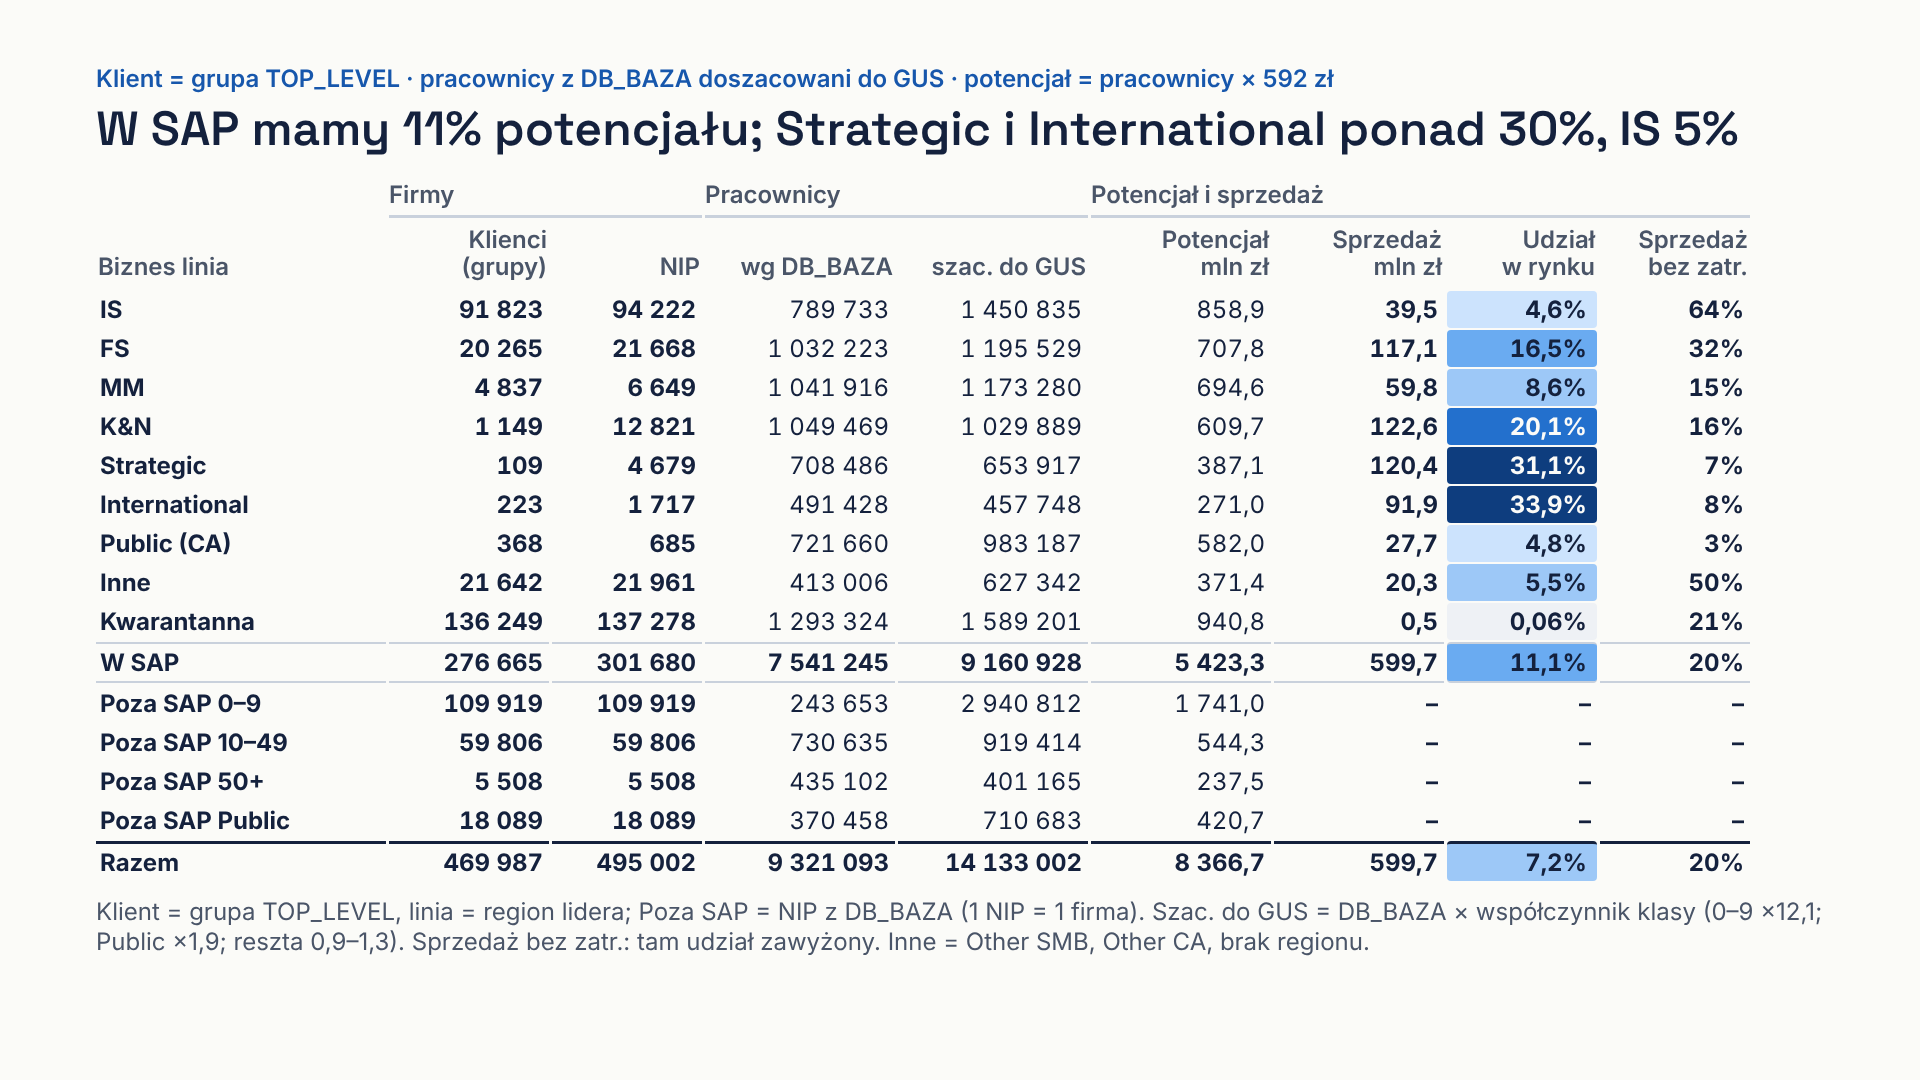
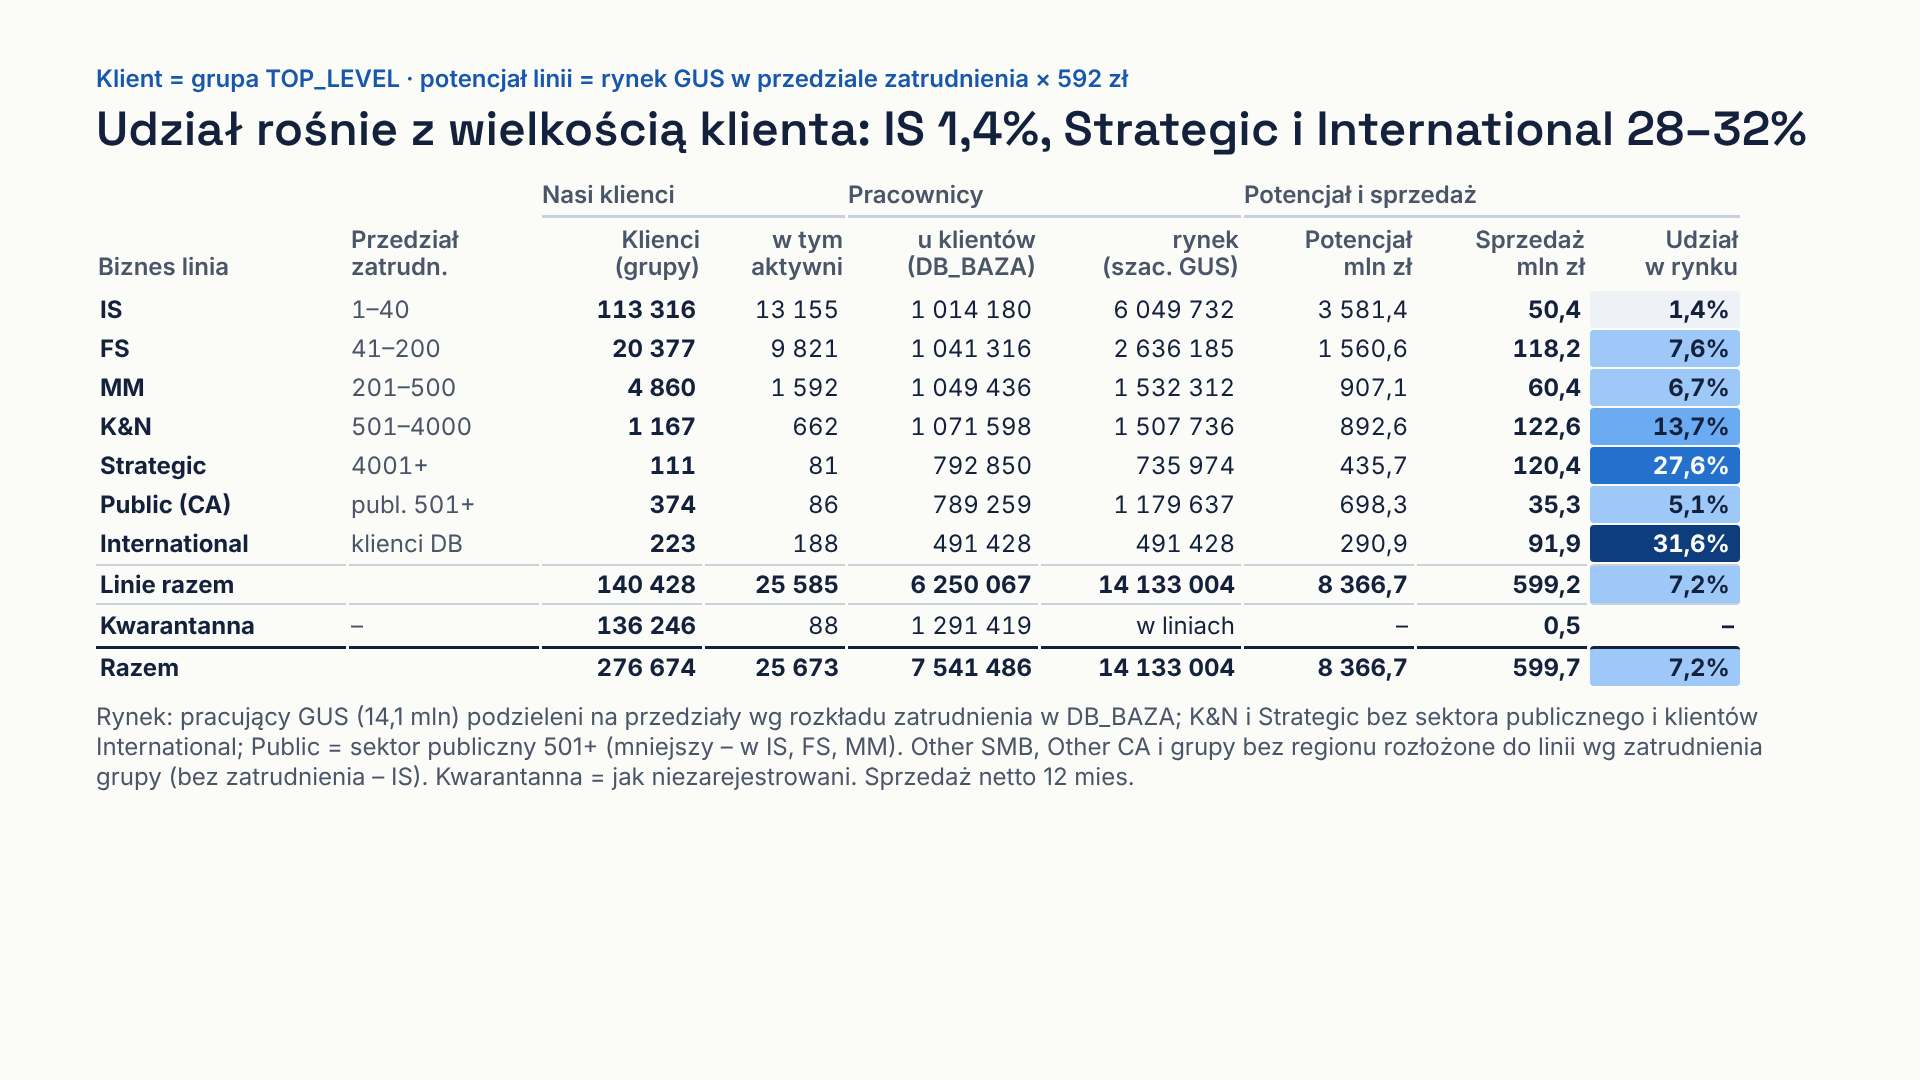
Slajd 3: potencjal linii wg matrycy zatrudnienia (D32 rynek, D33 klienci), Kwarantanna osobno
Claude-Session: https://claude.ai/code/session_01XKqyymM4iGumhJbEjTSpGW

Changed region(s): [[0.0312, 0.0611, 0.9375, 0.8861]]

diff --git a/piramida_klientow/prezentacja/slajd_gus_x_biznes_linie/slides/biznes_linie.html b/piramida_klientow/prezentacja/slajd_gus_x_biznes_linie/slides/biznes_linie.html
@@ -1,182 +1,130 @@
 <section id="biznes_linie" class="slajd">
-<p class="eyebrow">Klient = grupa TOP_LEVEL · pracownicy z DB_BAZA doszacowani do GUS · potencjał = pracownicy × 592 zł</p>
-<h2 class="tytul">W SAP mamy 11% potencjału; Strategic i International ponad 30%, IS 5%</h2>
+<p class="eyebrow">Klient = grupa TOP_LEVEL · potencjał linii = rynek GUS w przedziale zatrudnienia × 592 zł</p>
+<h2 class="tytul">Udział rośnie z wielkością klienta: IS 1,4%, Strategic i International 28–32%</h2>
 <div class="grupy3">
-<p class="grupa g3-f">Firmy</p>
+<p class="grupa g3-f">Nasi klienci</p>
 <p class="grupa g3-p">Pracownicy</p>
 <p class="grupa g3-r">Potencjał i sprzedaż</p>
 </div>
 <div class="siatka3">
 <p class="kol kol-l">Biznes linia</p>
+<p class="kol kol-l">Przedział<br>zatrudn.</p>
 <p class="kol kol-r">Klienci<br>(grupy)</p>
-<p class="kol kol-r">NIP</p>
-<p class="kol kol-r">wg DB_BAZA</p>
-<p class="kol kol-r">szac. do GUS</p>
+<p class="kol kol-r">w tym<br>aktywni</p>
+<p class="kol kol-r">u klientów<br>(DB_BAZA)</p>
+<p class="kol kol-r">rynek<br>(szac. GUS)</p>
 <p class="kol kol-r">Potencjał<br>mln zł</p>
 <p class="kol kol-r">Sprzedaż<br>mln zł</p>
 <p class="kol kol-r">Udział<br>w rynku</p>
-<p class="kol kol-r">Sprzedaż<br>bez zatr.</p>
 
 <p class="wiersz">IS</p>
-<p class="suma">91 823</p>
-<p class="suma">94 222</p>
-<p class="gus">789 733</p>
-<p class="gus">1 450 835</p>
-<p class="gus">858,9</p>
-<p class="suma">39,5</p>
-<p class="c3 h1">4,6%</p>
-<p class="suma">64%</p>
+<p class="gus pz">1–40</p>
+<p class="suma">113 316</p>
+<p class="gus">13 155</p>
+<p class="gus">1 014 180</p>
+<p class="gus">6 049 732</p>
+<p class="gus">3 581,4</p>
+<p class="suma">50,4</p>
+<p class="c3 h0">1,4%</p>
 
 <p class="wiersz">FS</p>
-<p class="suma">20 265</p>
-<p class="suma">21 668</p>
-<p class="gus">1 032 223</p>
-<p class="gus">1 195 529</p>
-<p class="gus">707,8</p>
-<p class="suma">117,1</p>
-<p class="c3 h3">16,5%</p>
-<p class="suma">32%</p>
+<p class="gus pz">41–200</p>
+<p class="suma">20 377</p>
+<p class="gus">9 821</p>
+<p class="gus">1 041 316</p>
+<p class="gus">2 636 185</p>
+<p class="gus">1 560,6</p>
+<p class="suma">118,2</p>
+<p class="c3 h2">7,6%</p>
 
 <p class="wiersz">MM</p>
-<p class="suma">4 837</p>
-<p class="suma">6 649</p>
-<p class="gus">1 041 916</p>
-<p class="gus">1 173 280</p>
-<p class="gus">694,6</p>
-<p class="suma">59,8</p>
-<p class="c3 h2">8,6%</p>
-<p class="suma">15%</p>
+<p class="gus pz">201–500</p>
+<p class="suma">4 860</p>
+<p class="gus">1 592</p>
+<p class="gus">1 049 436</p>
+<p class="gus">1 532 312</p>
+<p class="gus">907,1</p>
+<p class="suma">60,4</p>
+<p class="c3 h2">6,7%</p>
 
 <p class="wiersz">K&amp;N</p>
-<p class="suma">1 149</p>
-<p class="suma">12 821</p>
-<p class="gus">1 049 469</p>
-<p class="gus">1 029 889</p>
-<p class="gus">609,7</p>
+<p class="gus pz">501–4000</p>
+<p class="suma">1 167</p>
+<p class="gus">662</p>
+<p class="gus">1 071 598</p>
+<p class="gus">1 507 736</p>
+<p class="gus">892,6</p>
 <p class="suma">122,6</p>
-<p class="c3 h4">20,1%</p>
-<p class="suma">16%</p>
+<p class="c3 h3">13,7%</p>
 
 <p class="wiersz">Strategic</p>
-<p class="suma">109</p>
-<p class="suma">4 679</p>
-<p class="gus">708 486</p>
-<p class="gus">653 917</p>
-<p class="gus">387,1</p>
+<p class="gus pz">4001+</p>
+<p class="suma">111</p>
+<p class="gus">81</p>
+<p class="gus">792 850</p>
+<p class="gus">735 974</p>
+<p class="gus">435,7</p>
 <p class="suma">120,4</p>
-<p class="c3 h5">31,1%</p>
-<p class="suma">7%</p>
-
-<p class="wiersz">International</p>
-<p class="suma">223</p>
-<p class="suma">1 717</p>
-<p class="gus">491 428</p>
-<p class="gus">457 748</p>
-<p class="gus">271,0</p>
-<p class="suma">91,9</p>
-<p class="c3 h5">33,9%</p>
-<p class="suma">8%</p>
+<p class="c3 h4">27,6%</p>
 
 <p class="wiersz">Public (CA)</p>
-<p class="suma">368</p>
-<p class="suma">685</p>
-<p class="gus">721 660</p>
-<p class="gus">983 187</p>
-<p class="gus">582,0</p>
-<p class="suma">27,7</p>
-<p class="c3 h1">4,8%</p>
-<p class="suma">3%</p>
+<p class="gus pz">publ. 501+</p>
+<p class="suma">374</p>
+<p class="gus">86</p>
+<p class="gus">789 259</p>
+<p class="gus">1 179 637</p>
+<p class="gus">698,3</p>
+<p class="suma">35,3</p>
+<p class="c3 h2">5,1%</p>
 
-<p class="wiersz">Inne</p>
-<p class="suma">21 642</p>
-<p class="suma">21 961</p>
-<p class="gus">413 006</p>
-<p class="gus">627 342</p>
-<p class="gus">371,4</p>
-<p class="suma">20,3</p>
-<p class="c3 h2">5,5%</p>
-<p class="suma">50%</p>
+<p class="wiersz">International</p>
+<p class="gus pz">klienci DB</p>
+<p class="suma">223</p>
+<p class="gus">188</p>
+<p class="gus">491 428</p>
+<p class="gus">491 428</p>
+<p class="gus">290,9</p>
+<p class="suma">91,9</p>
+<p class="c3 h5">31,6%</p>
+
+<p class="wiersz sub">Linie razem</p>
+<p class="gus pz sub"></p>
+<p class="suma sub">140 428</p>
+<p class="gus sub">25 585</p>
+<p class="gus sub">6 250 067</p>
+<p class="gus sub">14 133 004</p>
+<p class="gus sub">8 366,7</p>
+<p class="suma sub">599,2</p>
+<p class="c3 h2 sub">7,2%</p>
 
 <p class="wiersz">Kwarantanna</p>
-<p class="suma">136 249</p>
-<p class="suma">137 278</p>
-<p class="gus">1 293 324</p>
-<p class="gus">1 589 201</p>
-<p class="gus">940,8</p>
+<p class="gus pz">–</p>
+<p class="suma">136 246</p>
+<p class="gus">88</p>
+<p class="gus">1 291 419</p>
+<p class="gus">w liniach</p>
+<p class="gus">–</p>
 <p class="suma">0,5</p>
-<p class="c3 h0">0,06%</p>
-<p class="suma">21%</p>
-
-<p class="wiersz sub">W SAP</p>
-<p class="suma sub">276 665</p>
-<p class="suma sub">301 680</p>
-<p class="gus sub">7 541 245</p>
-<p class="gus sub">9 160 928</p>
-<p class="gus sub">5 423,3</p>
-<p class="suma sub">599,7</p>
-<p class="c3 h3 sub">11,1%</p>
-<p class="suma sub">20%</p>
-
-<p class="wiersz">Poza SAP 0–9</p>
-<p class="suma">109 919</p>
-<p class="suma">109 919</p>
-<p class="gus">243 653</p>
-<p class="gus">2 940 812</p>
-<p class="gus">1 741,0</p>
-<p class="suma">–</p>
-<p class="suma">–</p>
-<p class="suma">–</p>
-
-<p class="wiersz">Poza SAP 10–49</p>
-<p class="suma">59 806</p>
-<p class="suma">59 806</p>
-<p class="gus">730 635</p>
-<p class="gus">919 414</p>
-<p class="gus">544,3</p>
-<p class="suma">–</p>
-<p class="suma">–</p>
-<p class="suma">–</p>
-
-<p class="wiersz">Poza SAP 50+</p>
-<p class="suma">5 508</p>
-<p class="suma">5 508</p>
-<p class="gus">435 102</p>
-<p class="gus">401 165</p>
-<p class="gus">237,5</p>
-<p class="suma">–</p>
-<p class="suma">–</p>
-<p class="suma">–</p>
-
-<p class="wiersz">Poza SAP Public</p>
-<p class="suma">18 089</p>
-<p class="suma">18 089</p>
-<p class="gus">370 458</p>
-<p class="gus">710 683</p>
-<p class="gus">420,7</p>
-<p class="suma">–</p>
-<p class="suma">–</p>
 <p class="suma">–</p>
 
 <p class="wiersz razem">Razem</p>
-<p class="suma razem">469 987</p>
-<p class="suma razem">495 002</p>
-<p class="gus razem">9 321 093</p>
-<p class="gus razem">14 133 002</p>
+<p class="gus pz razem"></p>
+<p class="suma razem">276 674</p>
+<p class="gus razem">25 673</p>
+<p class="gus razem">7 541 486</p>
+<p class="gus razem">14 133 004</p>
 <p class="gus razem">8 366,7</p>
 <p class="suma razem">599,7</p>
 <p class="c3 h2 razem">7,2%</p>
-<p class="suma razem">20%</p>
 </div>
-<p class="przypis p3">Klient = grupa TOP_LEVEL, linia = region lidera; Poza SAP = NIP z DB_BAZA (1 NIP = 1 firma). Szac. do GUS = DB_BAZA × współczynnik klasy (0–9 ×12,1; Public ×1,9; reszta 0,9–1,3). Sprzedaż bez zatr.: tam udział zawyżony. Inne = Other SMB, Other CA, brak regionu.</p>
-<aside>Tu klient to grupa TOP_LEVEL: lider i wszystkie spięte z nim NIP-y liczymy jako jedną firmę, w linii regionu lidera. Firmy, których nie ma w SAP, dokładamy z DB_BAZA według klasy zatrudnienia.
+<p class="przypis p3">Rynek: pracujący GUS (14,1 mln) podzieleni na przedziały wg rozkładu zatrudnienia w DB_BAZA; K&amp;N i Strategic bez sektora publicznego i klientów International; Public = sektor publiczny 501+ (mniejszy – w IS, FS, MM). Other SMB, Other CA i grupy bez regionu rozłożone do linii wg zatrudnienia grupy (bez zatrudnienia – IS). Kwarantanna = jak niezarejestrowani. Sprzedaż netto 12 mies.</p>
+<aside>Tu klient to grupa TOP_LEVEL (lider i spięte z nim NIP-y), w linii regionu lidera. Grupy z Other SMB, Other CA i bez regionu rozłożyliśmy do linii według łącznego zatrudnienia grupy (bez zatrudnienia – do IS). Kwarantannę zostawiamy osobno i traktujemy jak niezarejestrowanych: jej firmy są w rynku linii, ale nie w klientach.
 
-Pracowników sumujemy z DB_BAZA i doszacowujemy do GUS: w każdej klasie mnożymy przez pracujących GUS podzielonych przez zatrudnienie w DB_BAZA. W 0–9 współczynnik to 12, bo DB_BAZA ma niewiele małych firm; razem wychodzi 14,1 mln pracujących, czyli cały GUS. Potencjał to pracownicy razy 592 zł.
+Potencjał linii to cały rynek w jej przedziale zatrudnienia: pracujący GUS podzieleni na przedziały według rozkładu zatrudnienia w DB_BAZA, razy 592 zł. K&N to 501–4000, a Strategic 4001+, w obu bez sektora publicznego i bez klientów International. Public to sektor publiczny 501+; mniejsze instytucje są w rynku IS, FS i MM. International to tylko zatrudnienie jego klientów z DB_BAZA. Razem 14,1 mln pracujących i 8,4 mld zł.
 
-Klienci w SAP to 9,2 mln pracowników i 5,4 mld zł potencjału; mamy 11% tego potencjału. Poza SAP jest 5,0 mln pracowników i 2,9 mld zł potencjału, z tego 1,7 mld w firmach 0–9.
+Udział rośnie z wielkością klienta: IS 1,4%, MM 6,7%, FS 7,6%, K&N 13,7%, Strategic 27,6%, International 31,6%. Public ma 5,1%.
 
-Najwyższy udział mają Strategic (31%) i International (34%), potem K&N (20%) i FS (17%). IS ma 4,6%, MM 8,6%, Public 4,8%.
+IS to 43% potencjału rynku (3,6 mld zł) przy 50 mln zł sprzedaży – największa luka. Wynika to też z tego, że cały rynek firm 0–9 (3,7 mln pracujących) liczymy do IS.
 
-Kwarantanna to 136 tys. grup i 1,6 mln pracowników – 941 mln zł potencjału przy 0,5 mln sprzedaży.
-
-Uwaga: 20% sprzedaży (119 mln zł) to NIP-y bez zatrudnienia w DB_BAZA. W IS to 64% sprzedaży, w FS 32% – tam potencjał jest zaniżony, a udział zawyżony.</aside>
+Kwarantanna: 136 tys. grup i 1,3 mln pracowników w DB_BAZA, 0,5 mln zł sprzedaży.</aside>
 </section>

diff --git a/piramida_klientow/prezentacja/slajd_gus_x_biznes_linie/deck.css b/piramida_klientow/prezentacja/slajd_gus_x_biznes_linie/deck.css
@@ -243,7 +243,7 @@ body {
 .grupy3,
 .siatka3 {
   display: grid;
-  grid-template-columns: 290px 160px 150px 190px 190px 180px 170px 150px 150px;
+  grid-template-columns: 250px 190px 160px 140px 190px 200px 170px 170px 150px;
   column-gap: 3px;
 }
 
@@ -255,9 +255,9 @@ body {
   margin: 0 0 4px;
 }
 
-.g3-f { grid-column: 2 / 4; }
-.g3-p { grid-column: 4 / 6; }
-.g3-r { grid-column: 6 / 10; }
+.g3-f { grid-column: 3 / 5; }
+.g3-p { grid-column: 5 / 7; }
+.g3-r { grid-column: 7 / 10; }
 
 .siatka3 .wiersz,
 .siatka3 .gus,
@@ -294,4 +294,9 @@ body {
 
 .siatka3 .razem {
   font-weight: 700;
+}
+
+.pz {
+  text-align: left;
+  color: var(--muted);
 }
